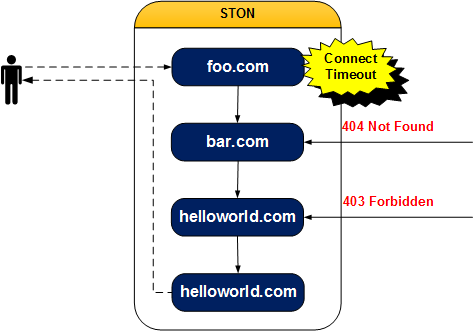
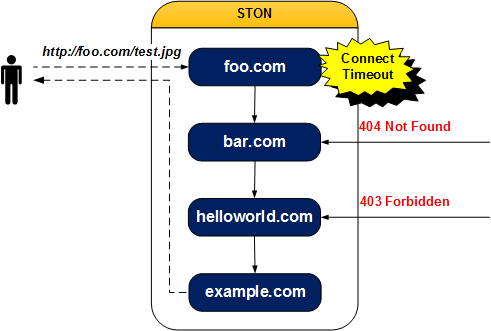
1
1

diff --git a/admin/adv_vhost.rst b/admin/adv_vhost.rst
@@ -310,8 +310,8 @@ Redirect 추적
    #Fields: date time s-ip cs-method cs-uri-stem ...(중략)... vhostlink
    2016.11.24 16:52:24 220.134.10.5 GET /test.jpg ...(중략)... bar.com+helloworld.com+example.com
 
-다음의 경우 요청은 다른 가상호스트로 위임되지 않고 현재 가상호스트가 처리한다.
+다음의 경우 링크는 즉시 중단된다.
 
 * 대상 가상호스트가 존재하지 않는 경우 (foo.com -> ?)
 * 자기 자신을 대상 가상호스트로 지정한 경우 (foo.com -> foo.com)
-* Loop가 발생한 경우 (foo.com -> bar.com -> foo.com)
+* 재귀링크(Recursive Link)가 발생한 경우 (foo.com -> bar.com -> foo.com)
